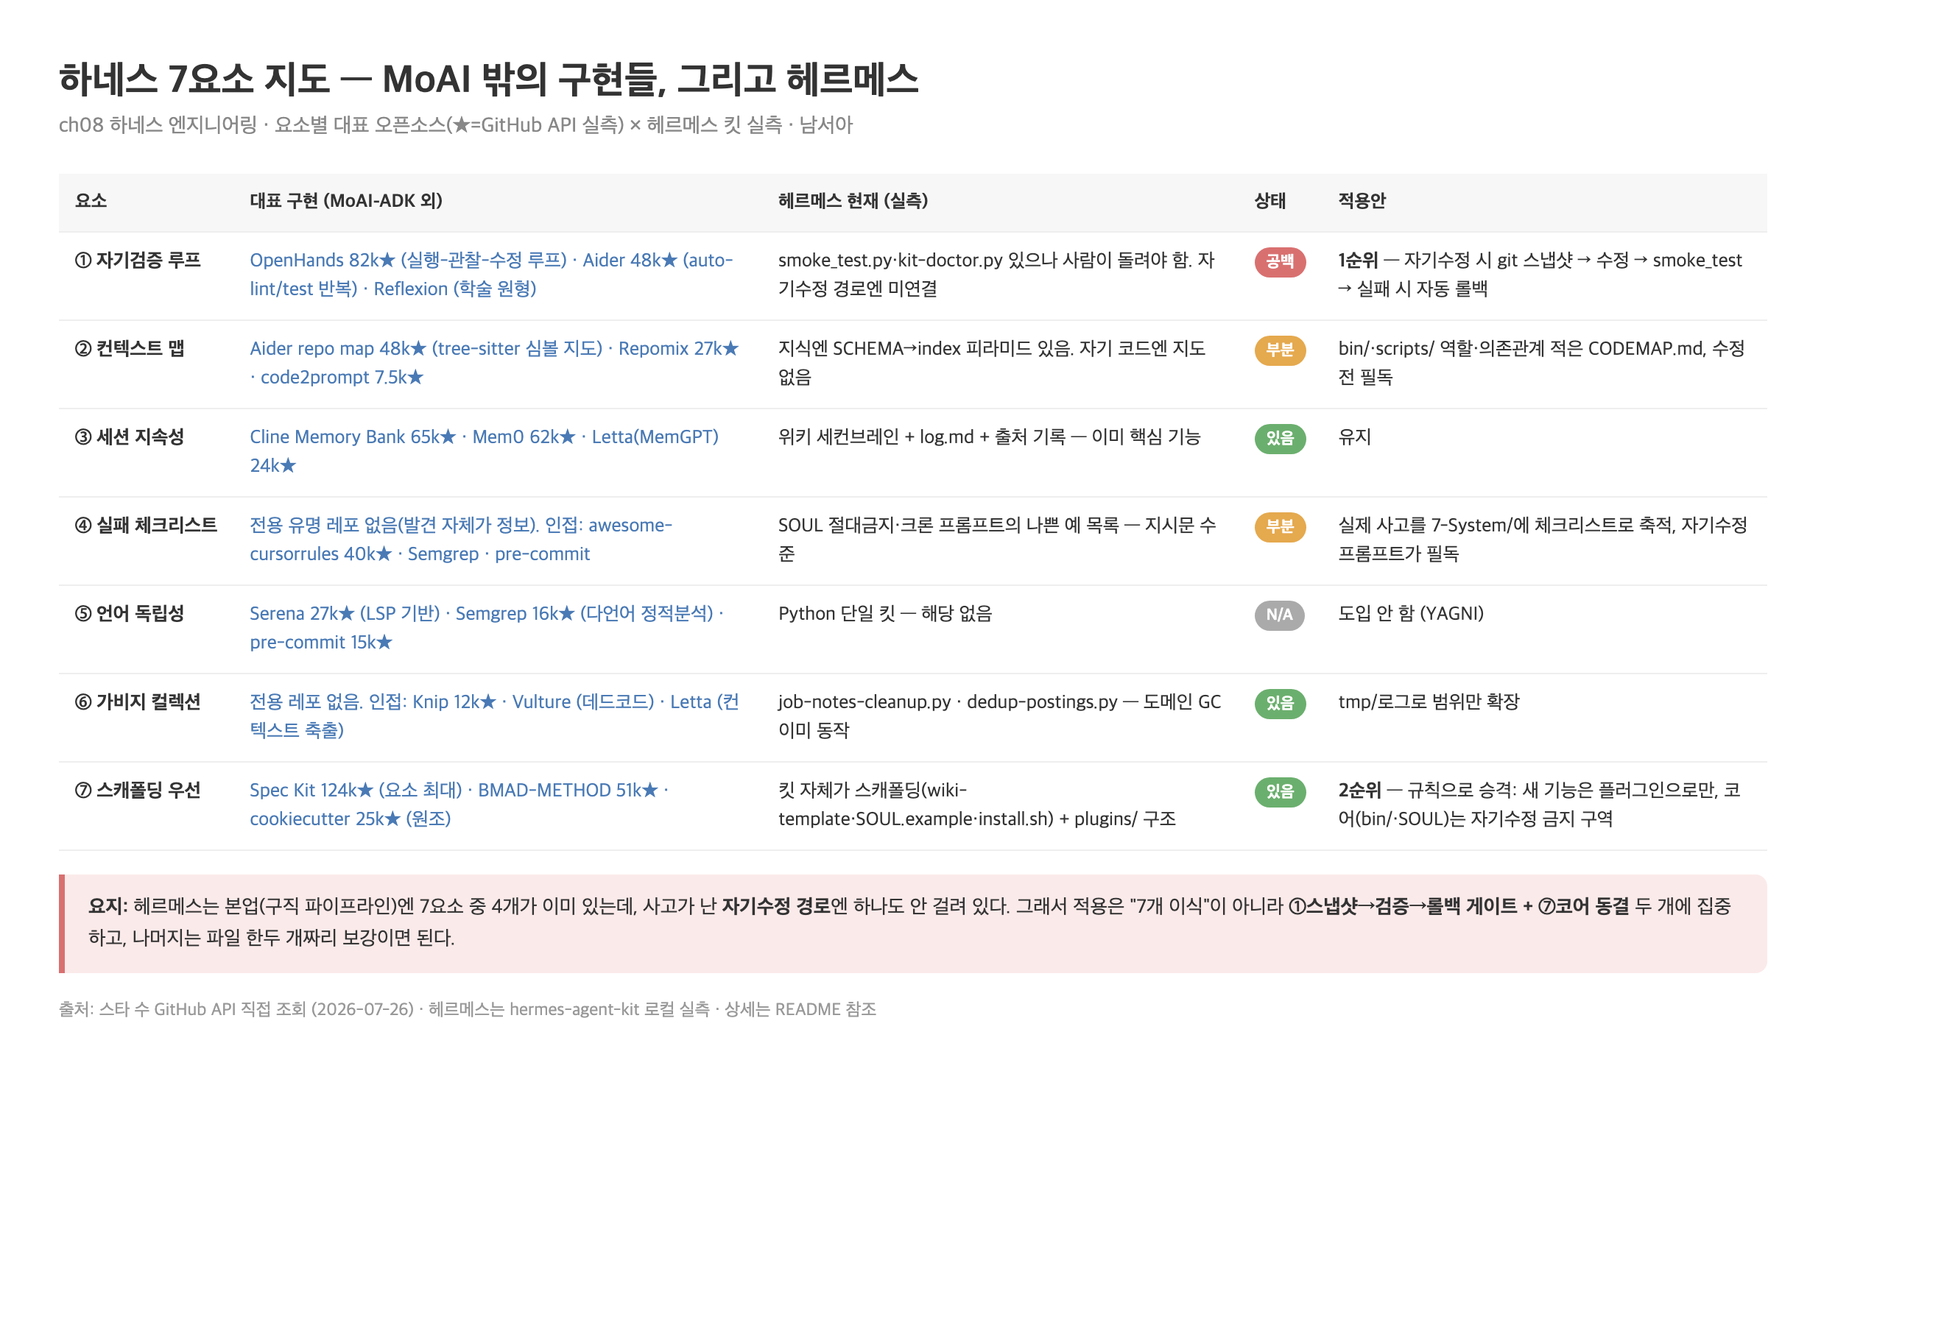
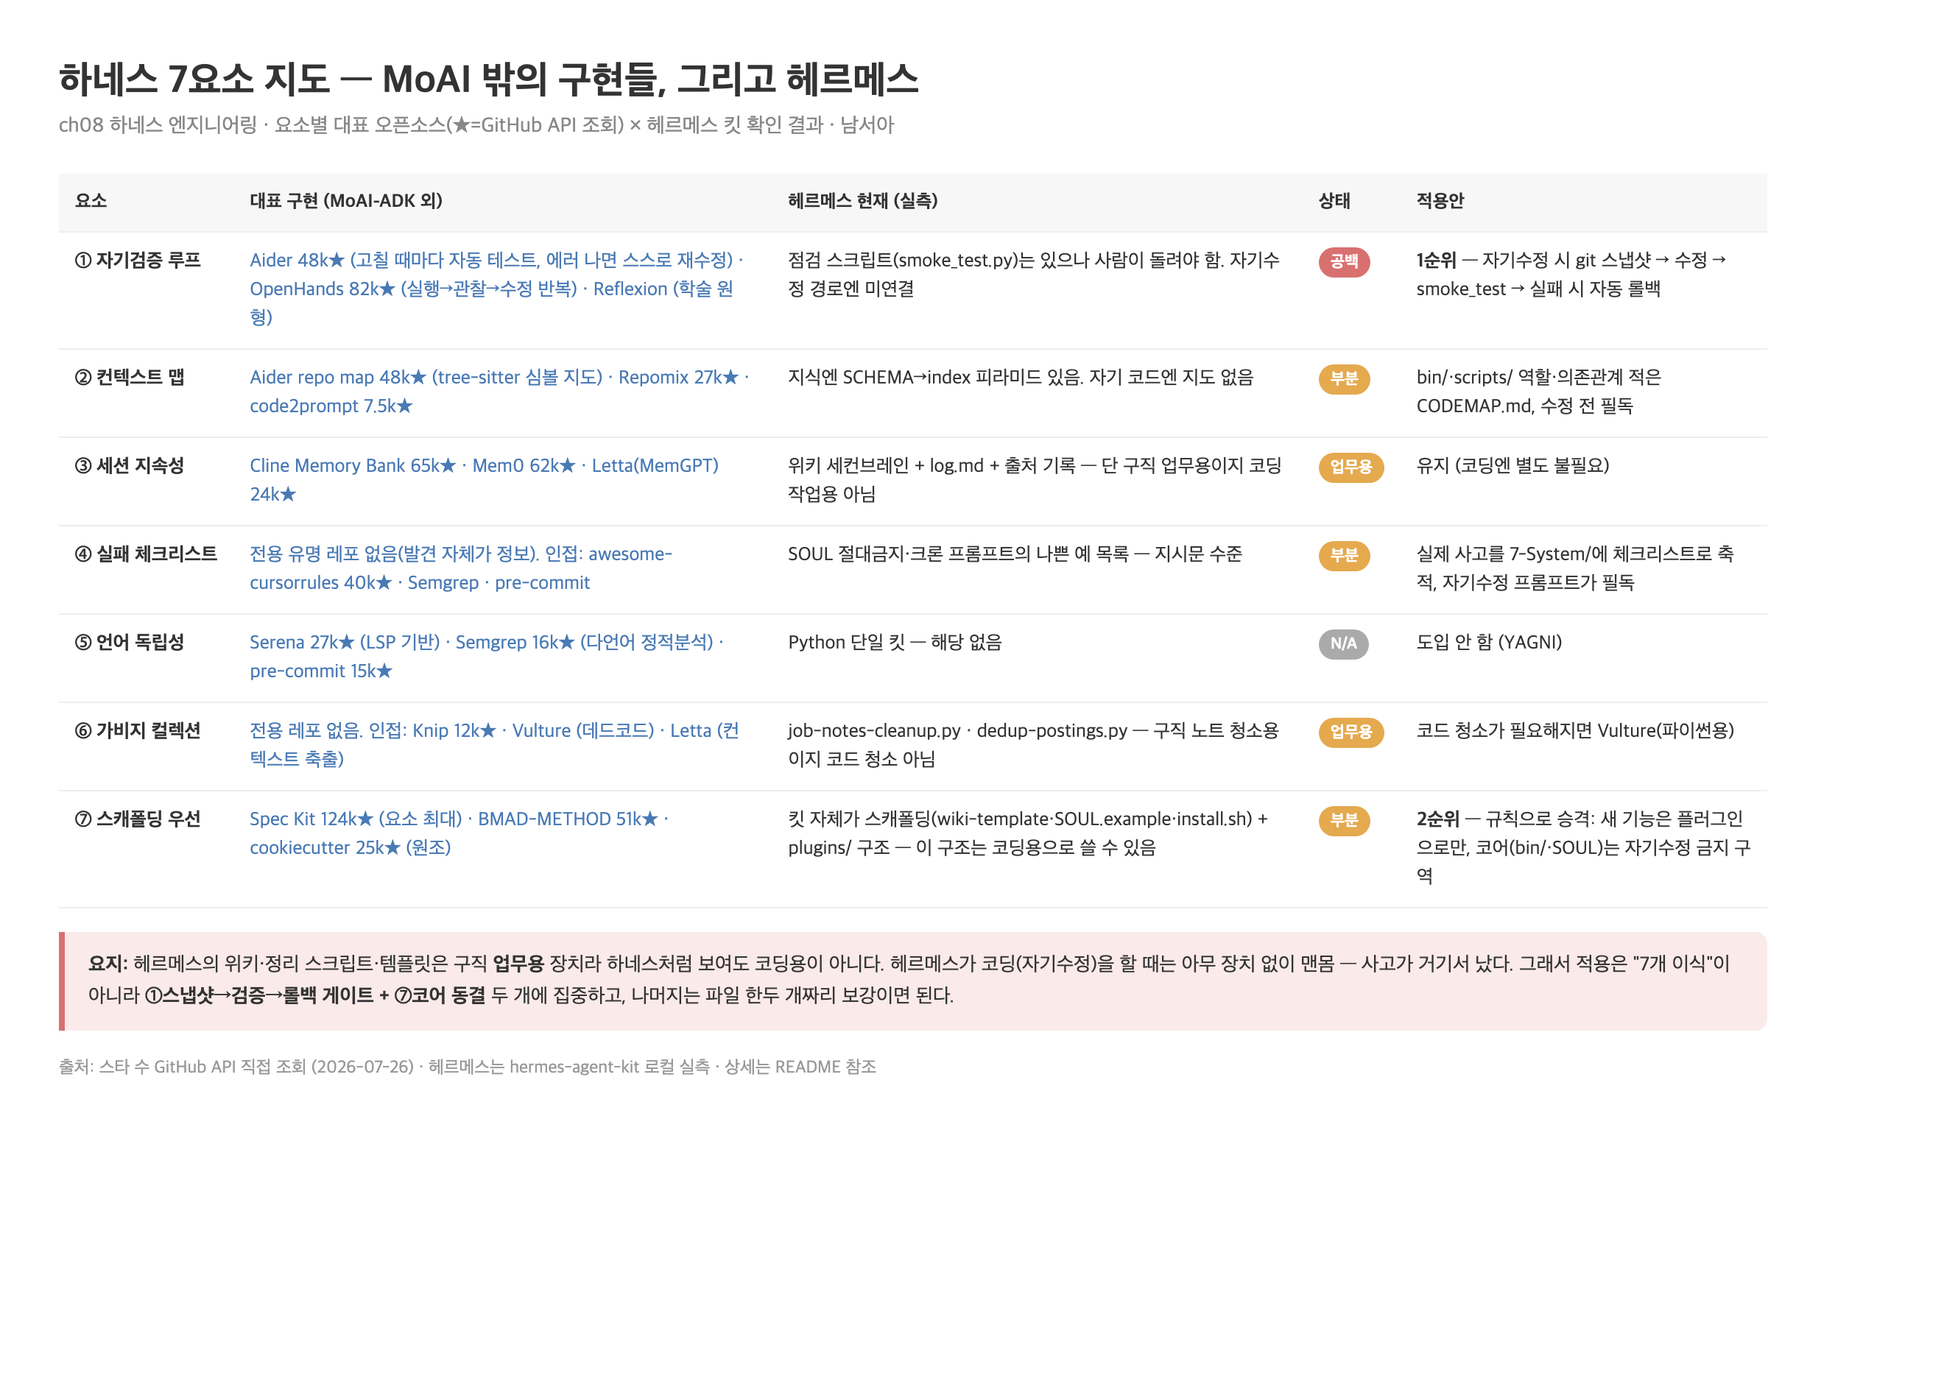
docs(ch08): 남서아 정리본 개편 — 개념 설명 먼저, 업무용/코딩용 구분 정정

diff --git a/chapters/ch08/남서아/harness-7-map.html b/chapters/ch08/남서아/harness-7-map.html
@@ -21,14 +21,14 @@
 </head>
 <body>
   <h1>하네스 7요소 지도 — MoAI 밖의 구현들, 그리고 헤르메스</h1>
-  <div class="sub">ch08 하네스 엔지니어링 · 요소별 대표 오픈소스(★=GitHub API 실측) × 헤르메스 킷 실측 · 남서아</div>
+  <div class="sub">ch08 하네스 엔지니어링 · 요소별 대표 오픈소스(★=GitHub API 조회) × 헤르메스 킷 확인 결과 · 남서아</div>
 
   <table>
     <tr><th>요소</th><th>대표 구현 (MoAI-ADK 외)</th><th>헤르메스 현재 (실측)</th><th>상태</th><th>적용안</th></tr>
     <tr>
       <td>① 자기검증 루프</td>
-      <td class="repo">OpenHands 82k★ (실행-관찰-수정 루프) · Aider 48k★ (auto-lint/test 반복) · Reflexion (학술 원형)</td>
-      <td>smoke_test.py·kit-doctor.py 있으나 사람이 돌려야 함. 자기수정 경로엔 미연결</td>
+      <td class="repo">Aider 48k★ (고칠 때마다 자동 테스트, 에러 나면 스스로 재수정) · OpenHands 82k★ (실행→관찰→수정 반복) · Reflexion (학술 원형)</td>
+      <td>점검 스크립트(smoke_test.py)는 있으나 사람이 돌려야 함. 자기수정 경로엔 미연결</td>
       <td><span class="chip gap">공백</span></td>
       <td><b>1순위</b> — 자기수정 시 git 스냅샷 → 수정 → smoke_test → 실패 시 자동 롤백</td>
     </tr>
@@ -42,9 +42,9 @@
     <tr>
       <td>③ 세션 지속성</td>
       <td class="repo">Cline Memory Bank 65k★ · Mem0 62k★ · Letta(MemGPT) 24k★</td>
-      <td>위키 세컨브레인 + log.md + 출처 기록 — 이미 핵심 기능</td>
-      <td><span class="chip ok">있음</span></td>
-      <td>유지</td>
+      <td>위키 세컨브레인 + log.md + 출처 기록 — 단 구직 업무용이지 코딩 작업용 아님</td>
+      <td><span class="chip part">업무용</span></td>
+      <td>유지 (코딩엔 별도 불필요)</td>
     </tr>
     <tr>
       <td>④ 실패 체크리스트</td>
@@ -63,20 +63,20 @@
     <tr>
       <td>⑥ 가비지 컬렉션</td>
       <td class="repo">전용 레포 없음. 인접: Knip 12k★ · Vulture (데드코드) · Letta (컨텍스트 축출)</td>
-      <td>job-notes-cleanup.py · dedup-postings.py — 도메인 GC 이미 동작</td>
-      <td><span class="chip ok">있음</span></td>
-      <td>tmp/로그로 범위만 확장</td>
+      <td>job-notes-cleanup.py · dedup-postings.py — 구직 노트 청소용이지 코드 청소 아님</td>
+      <td><span class="chip part">업무용</span></td>
+      <td>코드 청소가 필요해지면 Vulture(파이썬용)</td>
     </tr>
     <tr>
       <td>⑦ 스캐폴딩 우선</td>
       <td class="repo">Spec Kit 124k★ (요소 최대) · BMAD-METHOD 51k★ · cookiecutter 25k★ (원조)</td>
-      <td>킷 자체가 스캐폴딩(wiki-template·SOUL.example·install.sh) + plugins/ 구조</td>
-      <td><span class="chip ok">있음</span></td>
+      <td>킷 자체가 스캐폴딩(wiki-template·SOUL.example·install.sh) + plugins/ 구조 — 이 구조는 코딩용으로 쓸 수 있음</td>
+      <td><span class="chip part">부분</span></td>
       <td><b>2순위</b> — 규칙으로 승격: 새 기능은 플러그인으로만, 코어(bin/·SOUL)는 자기수정 금지 구역</td>
     </tr>
   </table>
 
-  <div class="note"><b>요지:</b> 헤르메스는 본업(구직 파이프라인)엔 7요소 중 4개가 이미 있는데, 사고가 난 <b>자기수정 경로</b>엔 하나도 안 걸려 있다. 그래서 적용은 "7개 이식"이 아니라 <b>①스냅샷→검증→롤백 게이트 + ⑦코어 동결</b> 두 개에 집중하고, 나머지는 파일 한두 개짜리 보강이면 된다.</div>
+  <div class="note"><b>요지:</b> 헤르메스의 위키·정리 스크립트·템플릿은 구직 <b>업무용</b> 장치라 하네스처럼 보여도 코딩용이 아니다. 헤르메스가 코딩(자기수정)을 할 때는 아무 장치 없이 맨몸 — 사고가 거기서 났다. 그래서 적용은 "7개 이식"이 아니라 <b>①스냅샷→검증→롤백 게이트 + ⑦코어 동결</b> 두 개에 집중하고, 나머지는 파일 한두 개짜리 보강이면 된다.</div>
 
   <div class="foot">출처: 스타 수 GitHub API 직접 조회 (2026-07-26) · 헤르메스는 hermes-agent-kit 로컬 실측 · 상세는 README 참조</div>
 </body>

diff --git a/chapters/ch08/남서아/README.md b/chapters/ch08/남서아/README.md
@@ -1,66 +1,51 @@
-# 남서아 · 8장 정리: 하네스 7요소 — MoAI 밖의 구현들, 그리고 헤르메스 (2026-07-26)
+# 남서아 · 8장 정리: 하네스 7요소와 헤르메스 적용 (2026-07-26)
 
-- **관통 질문**: 하네스 엔지니어링 7요소는 MoAI-ADK 없이도 구현돼 있나? 내가 배포 중인 헤르메스 에이전트의 자기수정 사고에는 뭘 씌워야 하나?
-- 조사 방식: 요소별 대표 오픈소스 웹 조사(스타 수는 GitHub API 직접 조회, 2026-07-26) + 헤르메스 킷(hermes-agent-kit) 로컬 실측
-- 배경: 헤르메스를 비기술직군 사람들에게 깔아주고 있는데, 자기개선루프가 완성된 스크립트의 맥락을 잃고 기존 코드를 부수는 사고가 실제로 났다. 이 정리는 그 사고에 씌울 하네스를 고르는 작업이다
+8장은 하네스 엔지니어링을 다룬다. 바이브코딩이 AI에 코드 작성을 요청하는 것이라면, 하네스 엔지니어링은 AI가 올바르게 작동할 수밖에 없는 환경을 만드는 것이다. 나는 그 환경을 이루는 7가지 요소가 각각 뭔지, MoAI-ADK 말고는 누가 어떻게 구현했는지 조사했고, 마지막으로 내가 배포 중인 헤르메스 에이전트에 대입해봤다.
+
+## 1. 하네스 7요소 — 각각 뭐고 왜 필요한가
+
+1. **자기검증 루프** — AI가 작업 결과를 스스로 검사하고, 틀렸으면 다시 고치게 하는 장치. AI는 자기가 뭘 깨뜨렸는지 모른 채 "다 됐다"고 말하기 때문에 필요하다.
+2. **컨텍스트 맵** — 프로젝트 전체 구조를 요약한 지도를 AI에게 주는 것. 파일 하나만 보고 고치다가 연결된 다른 곳을 깨뜨리는 사고를 막는다.
+3. **세션 지속성** — 대화가 끝나거나 끊겨도 진행 상황과 결정이 남아서, 다음 세션이 이어받게 하는 것. 매번 처음부터 다시 설명하는 비용을 없앤다.
+4. **실패 체크리스트** — AI가 반복하는 실수를 목록으로 만들어 매번 참조하게 하는 것. 같은 사고가 두 번 나지 않게 한다.
+5. **언어 독립성** — 하네스가 특정 프로그래밍 언어에 묶이지 않게 하는 것. 언어를 바꿀 때마다 하네스를 새로 만들지 않아도 된다.
+6. **가비지 컬렉션** — 쓸모없어진 코드·파일·컨텍스트를 정기적으로 치우는 것. AI는 만들다 버린 흔적을 스스로 치우지 않는다.
+7. **스캐폴딩 우선** — 빈 화면에서 자유롭게 짓게 하지 않고, 틀을 먼저 깔고 그 안을 채우게 하는 것. 결과물이 예측 가능해진다.
+
+## 2. MoAI-ADK 밖의 구현들
+
+7요소는 MoAI-ADK만의 개념이 아니고, 요소마다 이미 큰 오픈소스가 있다. 요소별 대표 레포와 헤르메스 대입 결과는 아래 도식 하나에 정리했다.
 
 ![하네스 7요소 지도](harness-7-map.png)
 
-- 도식 원본: [harness-7-map.html](harness-7-map.html)
+- 도식 원본: [harness-7-map.html](harness-7-map.html) · 스타 수는 GitHub API 조회(2026-07-26)
 
----
+도식 밖에 적어둘 만한 것:
 
-## 1. 7요소별 대표 구현 — MoAI-ADK가 유일한 답이 아니다
+- 대표 예시 셋만 풀면 — [Aider](https://github.com/Aider-AI/aider)는 AI가 파일을 고칠 때마다 자동으로 테스트를 돌리고 에러가 나면 스스로 다시 고친다(자기검증 루프). [Repomix](https://github.com/yamadashy/repomix)는 레포 전체를 AI에 주기 좋은 한 파일로 묶는다(컨텍스트 맵). [Spec Kit](https://github.com/github/spec-kit)은 코딩 전에 스펙 문서 틀부터 만들게 강제한다(스캐폴딩).
+- 실패 체크리스트와 가비지 컬렉션은 그 이름을 내건 유명 레포가 아직 없다. 인접 도구를 조합해 쓰는 게 현재 답이다.
+- 도구는 언어를 탄다. 죽은 코드 청소 도구 Knip은 JS/TS 전용이라 파이썬 킷인 헤르메스엔 못 쓰고, 파이썬은 Vulture다.
+- 내가 쓰는 ponytail 플러그인(요청 안 한 추상화 금지, 최소한의 해법 강제)도 실패 체크리스트 계열이다. 헤르메스 SOUL에도 위임할 때 이 원칙을 붙이라는 규칙이 이미 들어 있다.
 
-| 요소 | 대표 오픈소스 (★ 대략치) | 한 줄 |
-|---|---|---|
-| ① 자기검증 루프 | [OpenHands](https://github.com/All-Hands-AI/OpenHands) 82k · [Aider](https://github.com/Aider-AI/aider) 48k · [Reflexion](https://github.com/noahshinn/reflexion) (NeurIPS 2023) | 실행-관찰-수정 루프 / 편집 후 자동 린트·테스트 반복 / 언어적 자기반성의 학술 원형 |
-| ② 컨텍스트 맵 | Aider repo map 48k · [Repomix](https://github.com/yamadashy/repomix) 27k · [code2prompt](https://github.com/mufeedvh/code2prompt) 7.5k | tree-sitter 심볼 지도 / 레포 전체를 AI 친화 단일 파일로 패킹 |
-| ③ 세션 지속성 | [Cline Memory Bank](https://docs.cline.bot/prompting/cline-memory-bank) 65k · [Mem0](https://github.com/mem0ai/mem0) 62k · [Letta(MemGPT)](https://github.com/letta-ai/letta) 24k | 구조화 마크다운으로 컨텍스트 리셋 후에도 이어서 작업 |
-| ④ 실패 체크리스트 | **전용 유명 레포 없음** — 인접: [awesome-cursorrules](https://github.com/PatrickJS/awesome-cursorrules) 40k · [Semgrep](https://github.com/semgrep/semgrep) · [pre-commit](https://github.com/pre-commit/pre-commit) | AI 상습 실수를 규칙 파일로 명문화해 매 세션 주입 |
-| ⑤ 언어 독립성 | [Serena](https://github.com/oraios/serena) 27k · Semgrep 16k · pre-commit 15k | LSP 기반이라 언어서버만 있으면 어떤 언어든 동작 |
-| ⑥ 가비지 컬렉션 | **전용 유명 레포 없음** — 인접: [Knip](https://github.com/webpro-nl/knip) 12k · [Vulture](https://github.com/jendrikseipp/vulture) · Letta의 컨텍스트 축출 | 데드코드 도구 + 메모리 축출 조합이 현재 실무 답 |
-| ⑦ 스캐폴딩 우선 | [Spec Kit](https://github.com/github/spec-kit) 124k · [BMAD-METHOD](https://github.com/bmad-code-org/BMAD-METHOD) 51k · [cookiecutter](https://github.com/cookiecutter/cookiecutter) 25k | 스펙→플랜→태스크 구조를 먼저 깔고 채운다. 요소 최대 스타는 Spec Kit |
+## 3. 헤르메스에 대입
 
-- 발견 2개: ④실패 체크리스트와 ⑥GC는 그 이름을 표방하는 단독 레포가 아직 없다(인접 도구 조합이 답) — MoAI가 이 둘을 요소로 명명한 게 오히려 특이점
-- ralph 루프(①의 사촌)는 개별 레포는 소규모지만 클로드 코드 공식 플러그인(ralph-wiggum)으로 편입됨
+배경: 헤르메스를 비기술직군 사람들에게 깔아주고 있는데, 자기개선루프가 완성된 스크립트의 맥락을 잃고 기존 코드를 부수는 일이 실제로 있었다.
 
-## 2. 헤르메스 실측 — 이미 있는 것과 비어 있는 것
+킷을 열어보면 위키(기억), 정리 스크립트(청소), 템플릿 구조(틀) 같은 장치가 이미 있어서 언뜻 하네스가 갖춰진 것처럼 보인다. 하지만 이건 구직 파이프라인이라는 업무를 위한 장치지, 코딩 작업용 하네스가 아니다. 헤르메스가 코딩을 하는 순간 — 자기 기능을 만들거나 스스로를 고칠 때 — 은 아무 장치 없이 맨몸으로 한다. 점검 스크립트가 있어도 사람이 직접 돌려야 하고, 자기 코드가 서로 어떻게 얽혀 있는지 적힌 지도도 없다. 사고가 거기서 난 이유다.
 
-- 킷 실측 결과, 본업(구직 파이프라인)엔 7요소 중 4개가 이미 있다:
-  - ③ 세션 지속성: 위키 세컨브레인 + log.md + 출처 기록
-  - ⑥ GC: `job-notes-cleanup.py` · `dedup-postings.py` (도메인 GC 동작 중)
-  - ⑦ 스캐폴딩: 킷 자체가 스캐폴딩(wiki-template · SOUL.example · install.sh) + `plugins/` 구조
-  - ② 컨텍스트 맵 절반: 지식엔 SCHEMA→index 피라미드 탐색이 있다
-- 비어 있는 곳이 정확히 사고 지점이다:
-  - ① 자기검증 루프: `smoke_test.py` · `kit-doctor.py`가 있지만 **사람이 돌려야 하고, 자기수정 경로에는 연결돼 있지 않다**
-  - ② 나머지 절반: 자기 코드(bin/·scripts/)엔 지도가 없다 — 수정하는 에이전트가 전체 구조를 모른 채 파일 하나만 보고 고친다
-  - ④ 실패 체크리스트: SOUL의 절대금지·크론 프롬프트의 나쁜 예 목록뿐 — 코드 수정 사고용은 없다
+그래서 할 일은 7개 이식이 아니라 자기수정 경로에 4개를 거는 것이다:
 
-## 3. 적용 설계 — 우선순위 4개
+1. **자기수정 게이트** — 자기 파일을 고칠 땐 수정 전 git으로 상태 저장 → 고치기 → 점검 스크립트 통과 확인 → 실패하면 되돌리기. 재료는 킷에 다 있고 연결만 하면 된다.
+2. **코어 동결** — 새 기능은 plugins 폴더로만 추가하고 핵심 파일은 자기수정 금지. 최악의 경우에도 플러그인 하나 지우면 복구된다.
+3. **실패 체크리스트** — 이번 사고부터 위키에 쌓고, 자기수정 프롬프트가 반드시 읽게 한다.
+4. **코드 지도** — 스크립트들의 역할·의존관계를 적은 문서 하나. Repomix로 초안을 뽑으면 된다.
 
-| # | 적용안 | 내용 | 재료 |
-|---|---|---|---|
-| 1 | 자기수정 게이트 (①) | 자기 파일을 고칠 땐 git 스냅샷 → 수정 → smoke_test 통과 → 실패 시 자동 롤백. 이 순서를 자기수정 절차(위임 프롬프트 계약)에 박는다 | smoke_test.py·git 이미 있음 — 연결만 하면 됨 |
-| 2 | 코어 동결 + 플러그인 전용 (⑦) | 새 기능은 `plugins/`로만 추가, `bin/`·`scripts/`·SOUL.md는 자기수정 금지 구역. 최악의 경우에도 플러그인 하나 지우면 복구 | plugins/ 구조(eagle-eye) 이미 있음 — 규칙으로 승격 |
-| 3 | 실패 체크리스트 축적 (④) | 실제 사고(이번 코드 파괴 건 포함)를 `7-System/`에 체크리스트로 쌓고, 자기수정 프롬프트가 필독 | 위키 이미 있음 — 파일 1개 + 프롬프트 1줄 |
-| 4 | 자기 코드의 CODEMAP (②) | bin/·scripts/의 역할·의존관계를 적은 CODEMAP.md, 수정 전 필독 | 문서 1개 |
+## 4. MoAI를 그냥 깔면 안 되나
 
-- ⑤ 언어 독립성은 Python 단일 킷이라 도입 안 함. ③⑥은 유지·소폭 확장
-- 클로드 코드/Codex에 코딩을 위임하는 모드는 1번 절차를 위임받는 쪽 프롬프트에 계약으로 넣으면 자연스럽게 결합된다
-
-## 4. 그냥 MoAI를 헤르메스에 깔면 안 되나?
-
-- 안 된다. 세 가지 이유:
-  1. **층이 다르다** — MoAI는 클로드 코드 위 규약층, 즉 개발자의 코딩 세션용 하네스다. 사고는 헤르메스가 런타임에 스스로를 수정할 때 나는데, 그 경로에 MoAI가 끼어들 자리가 없다
-  2. **호스트가 안 맞다** — 헤르메스 크론 잡의 provider는 openai-codex(GPT)다. MoAI는 클로드 코드 전용이라 실제 실행 경로와 결합이 안 된다
-  3. **필요한 하네스가 훨씬 작다** — 위 1·2번(스냅샷→검증→롤백 + 코어 동결)이면 사고를 막는다. SPEC 체계·TRUST 게이트까지 통째로 까는 건 과잉이고, 기존 지시문·훅과 충돌 위험이 더 크다
-- 결론: MoAI를 까는 게 아니라 **MoAI의 발상을 헤르메스 자기수정 경로에 옮겨 심는다**
-
----
+안 된다. MoAI는 개발자가 클로드 코드로 코딩할 때 쓰는 하네스라, 헤르메스가 런타임에 스스로를 고치는 경로엔 끼어들 자리가 없다. 헤르메스 크론의 provider도 GPT라 클로드 코드 전용인 MoAI와 결합되지 않는다. 필요한 건 위 1·2번 정도로 작다. MoAI를 까는 게 아니라 그 발상을 옮겨 심는 것이다.
 
 ## 출처
 
-1. 스타 수·레포 정보: GitHub API 직접 조회 (2026-07-26) — 본문 링크 참조
-2. 헤르메스: hermes-agent-kit 로컬 실측 (SOUL.example.md · CUSTOMIZE.md · bin/ · cron/jobs.json · tests/smoke_test.py)
-3. 책 〈클로드 코드로 시작하는 실전 에이전틱 코딩〉 8장 · MoAI-ADK 실측 상세는 [임정/README.md](../임정/README.md)
+- 스타 수·레포 정보: GitHub API 조회 (2026-07-26), 전체 목록은 [도식](harness-7-map.html)
+- 헤르메스: hermes-agent-kit 폴더를 직접 열어 확인 (SOUL·bin·cron·tests)
+- 책 8장 · MoAI-ADK 상세 분석은 [임정/README.md](../임정/README.md)
